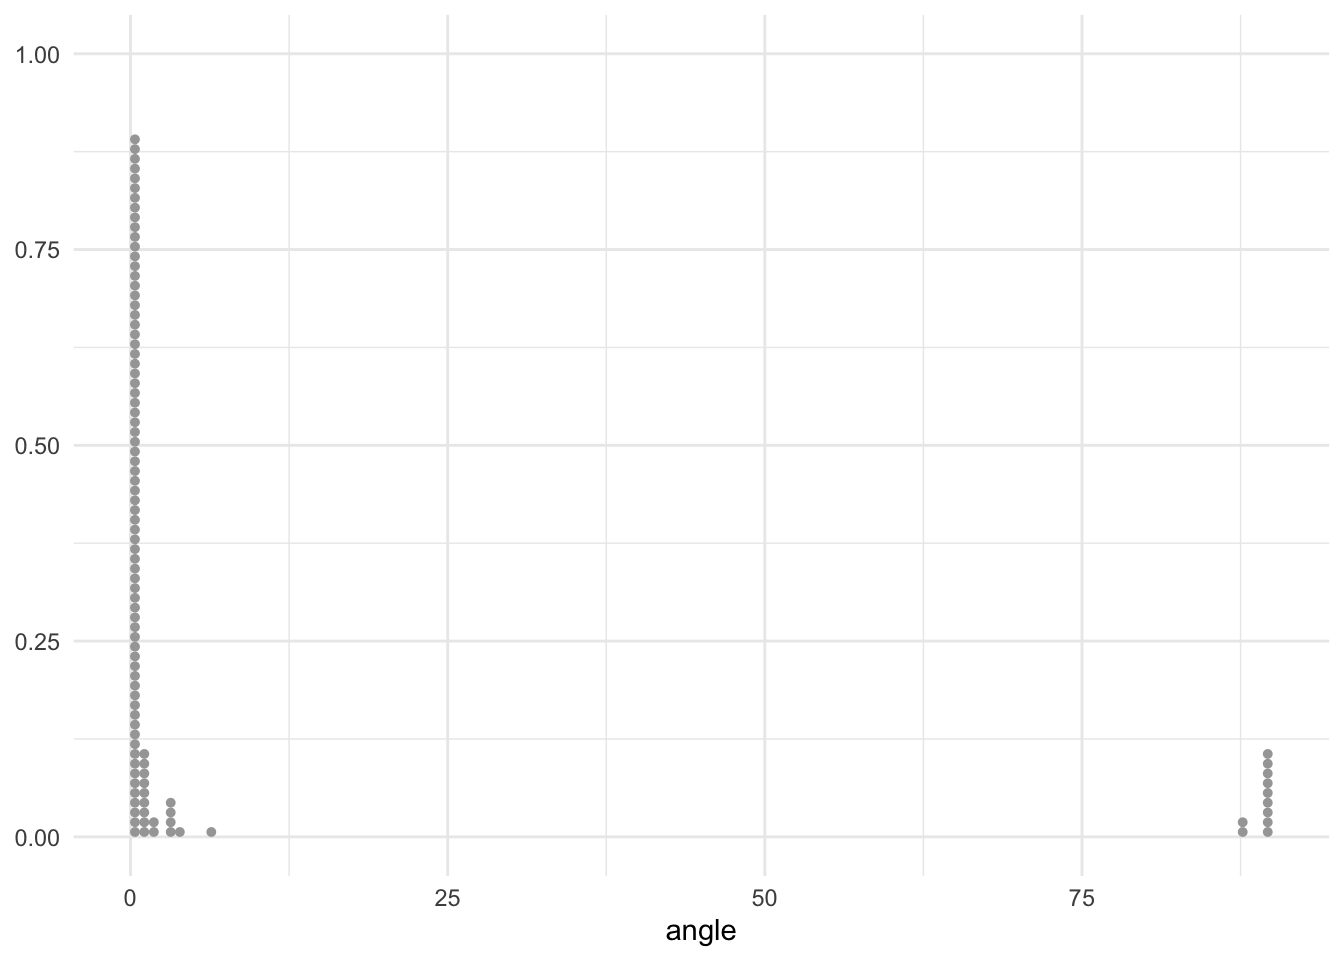
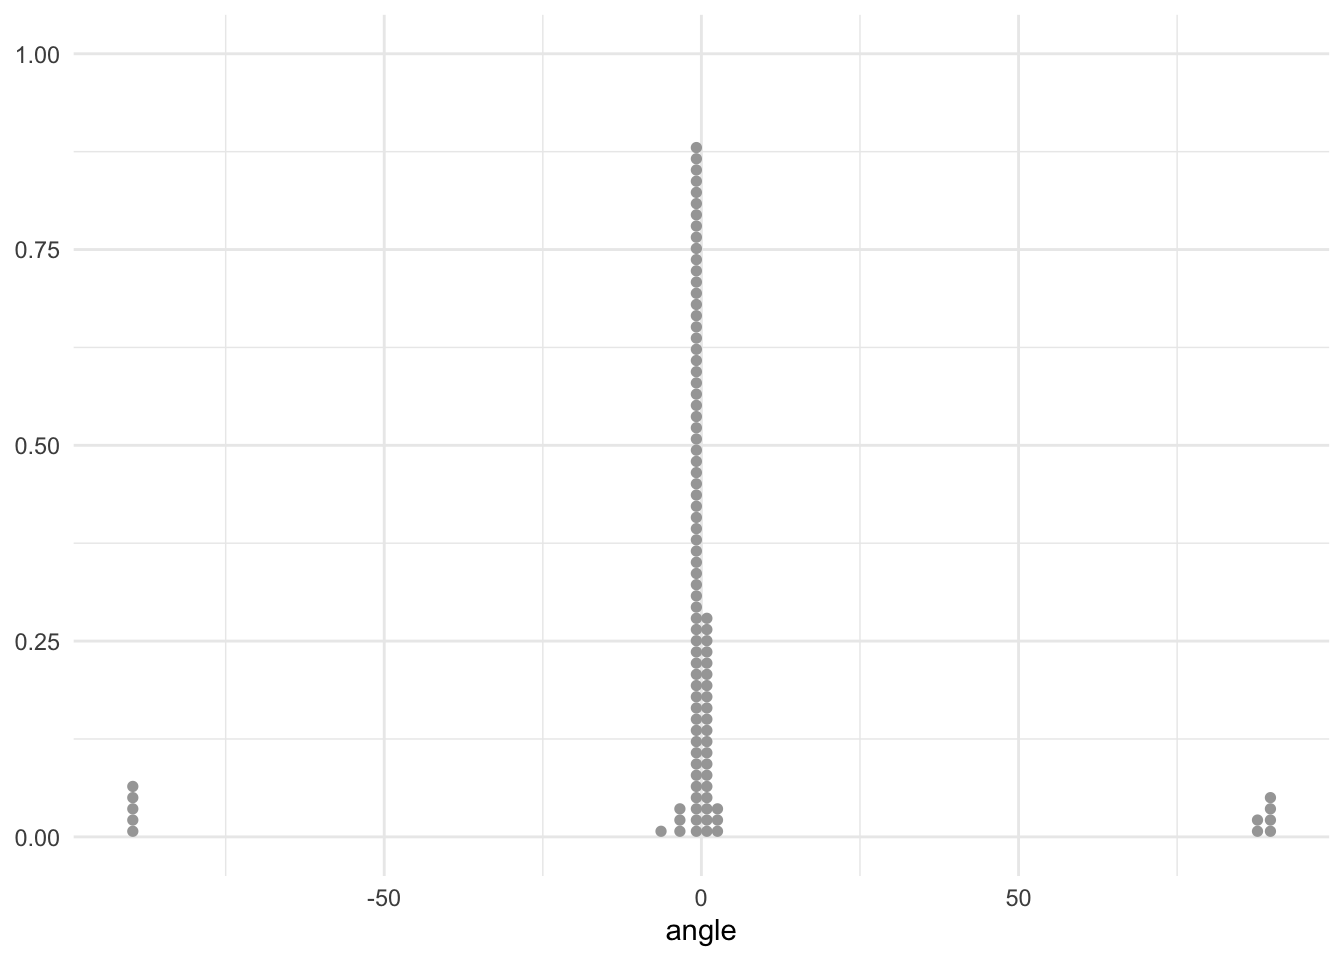
adding stuff related to task 4

diff --git a/model.html b/model.html
@@ -808,7 +808,7 @@ scale reduction factor on split chains (at convergence, Rhat = 1).</code></pre>
 </div>
 <p>The only thing that is worth noting is the relationship between <code>data.select.grad</code> and <code>dist_to_screen</code>. What about the corresponding angle?</p>
 <div class="cell">
-<div class="sourceCode cell-code" id="cb54"><pre class="sourceCode r code-with-copy"><code class="sourceCode r"><span id="cb54-1"><a href="#cb54-1" aria-hidden="true" tabindex="-1"></a>task2_df <span class="sc">%&gt;%</span> <span class="fu">ggplot</span>(<span class="fu">aes</span>(<span class="at">y =</span> <span class="fu">abs</span>(data.select.angle), <span class="at">x =</span> dist_to_screen)) <span class="sc">+</span></span>
+<div class="sourceCode cell-code" id="cb54"><pre class="sourceCode r code-with-copy"><code class="sourceCode r"><span id="cb54-1"><a href="#cb54-1" aria-hidden="true" tabindex="-1"></a>task2_df <span class="sc">%&gt;%</span> <span class="fu">ggplot</span>(<span class="fu">aes</span>(<span class="at">y =</span> data.select.angle, <span class="at">x =</span> dist_to_screen)) <span class="sc">+</span></span>
 <span id="cb54-2"><a href="#cb54-2" aria-hidden="true" tabindex="-1"></a>  <span class="fu">geom_point</span>(<span class="at">alpha =</span> <span class="fl">0.5</span>)</span></code><button title="Copy to Clipboard" class="code-copy-button"><i class="bi"></i></button></pre></div>
 <div class="cell-output-display">
 <div>
@@ -824,7 +824,7 @@ scale reduction factor on split chains (at convergence, Rhat = 1).</code></pre>
 <div class="sourceCode cell-code" id="cb55"><pre class="sourceCode r code-with-copy"><code class="sourceCode r"><span id="cb55-1"><a href="#cb55-1" aria-hidden="true" tabindex="-1"></a>task2_df <span class="sc">%&gt;%</span> </span>
 <span id="cb55-2"><a href="#cb55-2" aria-hidden="true" tabindex="-1"></a>  <span class="fu">mutate</span>(<span class="at">diff.x =</span> phy.select.x <span class="sc">-</span> phy.ans.x, </span>
 <span id="cb55-3"><a href="#cb55-3" aria-hidden="true" tabindex="-1"></a>         <span class="at">diff.y =</span> phy.select.y <span class="sc">-</span> phy.ans.y, </span>
-<span id="cb55-4"><a href="#cb55-4" aria-hidden="true" tabindex="-1"></a>         <span class="at">angle =</span> <span class="fu">atan</span>(<span class="fu">abs</span>(diff.y) <span class="sc">/</span> <span class="fu">abs</span>(diff.x)) <span class="sc">*</span> <span class="dv">180</span> <span class="sc">/</span> pi) <span class="sc">%&gt;%</span> </span>
+<span id="cb55-4"><a href="#cb55-4" aria-hidden="true" tabindex="-1"></a>         <span class="at">angle =</span> <span class="fu">atan</span>(diff.y <span class="sc">/</span> diff.x) <span class="sc">*</span> <span class="dv">180</span> <span class="sc">/</span> pi) <span class="sc">%&gt;%</span> </span>
 <span id="cb55-5"><a href="#cb55-5" aria-hidden="true" tabindex="-1"></a>  <span class="fu">ggplot</span>(<span class="fu">aes</span>(<span class="at">x =</span> angle)) <span class="sc">+</span> </span>
 <span id="cb55-6"><a href="#cb55-6" aria-hidden="true" tabindex="-1"></a>  <span class="fu">geom_dots</span>()</span></code><button title="Copy to Clipboard" class="code-copy-button"><i class="bi"></i></button></pre></div>
 <div class="cell-output-display">
@@ -911,8 +911,83 @@ scale reduction factor on split chains (at convergence, Rhat = 1).</code></pre>
 <div class="cell">
 <div class="sourceCode cell-code" id="cb60"><pre class="sourceCode r code-with-copy"><code class="sourceCode r"><span id="cb60-1"><a href="#cb60-1" aria-hidden="true" tabindex="-1"></a>task4_df <span class="ot">&lt;-</span> task_df <span class="sc">%&gt;%</span> <span class="fu">filter</span>(task <span class="sc">==</span> <span class="st">"task4"</span>) <span class="sc">%&gt;%</span> </span>
 <span id="cb60-2"><a href="#cb60-2" aria-hidden="true" tabindex="-1"></a>  <span class="fu">select</span>(<span class="sc">-</span>slider.x, <span class="sc">-</span>slider.y) <span class="sc">%&gt;%</span> </span>
-<span id="cb60-3"><a href="#cb60-3" aria-hidden="true" tabindex="-1"></a>  <span class="fu">mutate</span>(<span class="at">slope =</span> <span class="fu">dsgt</span>(data.select.x, param.mu, param.sigma, param.lambda, param.p, param.q, <span class="at">mean.cent=</span><span class="cn">FALSE</span>), </span>
-<span id="cb60-4"><a href="#cb60-4" aria-hidden="true" tabindex="-1"></a>         <span class="at">ans =</span> <span class="fu">dsgt</span>(param.mu, param.mu, param.sigma, param.lambda, param.p, param.q, <span class="at">mean.cent=</span><span class="cn">FALSE</span>))</span></code><button title="Copy to Clipboard" class="code-copy-button"><i class="bi"></i></button></pre></div>
+<span id="cb60-3"><a href="#cb60-3" aria-hidden="true" tabindex="-1"></a>  <span class="fu">mutate</span>(<span class="at">data.select.slope =</span> <span class="fu">dsgt</span>(data.select.x, param.mu, param.sigma, param.lambda, param.p, param.q, <span class="at">mean.cent=</span><span class="cn">FALSE</span>), </span>
+<span id="cb60-4"><a href="#cb60-4" aria-hidden="true" tabindex="-1"></a>         <span class="at">data.ans.slope =</span> <span class="fu">dsgt</span>(param.mu, param.mu, param.sigma, param.lambda, param.p, param.q, <span class="at">mean.cent=</span><span class="cn">FALSE</span>)) <span class="sc">%&gt;%</span> </span>
+<span id="cb60-5"><a href="#cb60-5" aria-hidden="true" tabindex="-1"></a>  <span class="fu">left_join</span>(participants, <span class="at">by =</span> <span class="fu">join_by</span>(participantId))</span></code><button title="Copy to Clipboard" class="code-copy-button"><i class="bi"></i></button></pre></div>
+</div>
+<p>Let’s first see the distribution of signed error:</p>
+<div class="cell">
+<div class="sourceCode cell-code" id="cb61"><pre class="sourceCode r code-with-copy"><code class="sourceCode r"><span id="cb61-1"><a href="#cb61-1" aria-hidden="true" tabindex="-1"></a>task4_df <span class="sc">%&gt;%</span> <span class="fu">ggplot</span>(<span class="fu">aes</span>(<span class="at">x =</span> data.select.slope <span class="sc">-</span> data.ans.slope)) <span class="sc">+</span> </span>
+<span id="cb61-2"><a href="#cb61-2" aria-hidden="true" tabindex="-1"></a>  <span class="fu">geom_dots</span>()</span></code><button title="Copy to Clipboard" class="code-copy-button"><i class="bi"></i></button></pre></div>
+<div class="cell-output-display">
+<div>
+<figure class="figure">
+<p><img src="model_files/figure-html/unnamed-chunk-35-1.png" class="img-fluid figure-img" width="672"></p>
+</figure>
+</div>
+</div>
+</div>
+<p>It seems that the selected slope is consistently smaller than the actual slope of the answer.</p>
+<p>Let’s see if there’s any obvious relation between signed error and parameters of the distribution:</p>
+<div class="cell">
+<div class="sourceCode cell-code" id="cb62"><pre class="sourceCode r code-with-copy"><code class="sourceCode r"><span id="cb62-1"><a href="#cb62-1" aria-hidden="true" tabindex="-1"></a><span class="co"># | layout-ncol: 2</span></span>
+<span id="cb62-2"><a href="#cb62-2" aria-hidden="true" tabindex="-1"></a><span class="co">#| code-fold: true </span></span>
+<span id="cb62-3"><a href="#cb62-3" aria-hidden="true" tabindex="-1"></a></span>
+<span id="cb62-4"><a href="#cb62-4" aria-hidden="true" tabindex="-1"></a></span>
+<span id="cb62-5"><a href="#cb62-5" aria-hidden="true" tabindex="-1"></a>task4_df <span class="sc">%&gt;%</span> <span class="fu">ggplot</span>(<span class="fu">aes</span>(<span class="at">y =</span> data.select.slope <span class="sc">-</span> data.ans.slope, <span class="at">x =</span> dist_to_screen)) <span class="sc">+</span> </span>
+<span id="cb62-6"><a href="#cb62-6" aria-hidden="true" tabindex="-1"></a>  <span class="fu">geom_point</span>()</span></code><button title="Copy to Clipboard" class="code-copy-button"><i class="bi"></i></button></pre></div>
+<div class="cell-output-display">
+<div>
+<figure class="figure">
+<p><img src="model_files/figure-html/unnamed-chunk-36-1.png" class="img-fluid figure-img" width="672"></p>
+</figure>
+</div>
+</div>
+<div class="sourceCode cell-code" id="cb63"><pre class="sourceCode r code-with-copy"><code class="sourceCode r"><span id="cb63-1"><a href="#cb63-1" aria-hidden="true" tabindex="-1"></a>task4_df <span class="sc">%&gt;%</span> <span class="fu">ggplot</span>(<span class="fu">aes</span>(<span class="at">y =</span> data.select.slope <span class="sc">-</span> data.ans.slope, <span class="at">x =</span> param.mu)) <span class="sc">+</span> </span>
+<span id="cb63-2"><a href="#cb63-2" aria-hidden="true" tabindex="-1"></a>  <span class="fu">geom_point</span>()</span></code><button title="Copy to Clipboard" class="code-copy-button"><i class="bi"></i></button></pre></div>
+<div class="cell-output-display">
+<div>
+<figure class="figure">
+<p><img src="model_files/figure-html/unnamed-chunk-36-2.png" class="img-fluid figure-img" width="672"></p>
+</figure>
+</div>
+</div>
+<div class="sourceCode cell-code" id="cb64"><pre class="sourceCode r code-with-copy"><code class="sourceCode r"><span id="cb64-1"><a href="#cb64-1" aria-hidden="true" tabindex="-1"></a>task4_df <span class="sc">%&gt;%</span> <span class="fu">ggplot</span>(<span class="fu">aes</span>(<span class="at">y =</span> data.select.slope <span class="sc">-</span> data.ans.slope, <span class="at">x =</span> param.sigma)) <span class="sc">+</span> </span>
+<span id="cb64-2"><a href="#cb64-2" aria-hidden="true" tabindex="-1"></a>  <span class="fu">geom_point</span>()</span></code><button title="Copy to Clipboard" class="code-copy-button"><i class="bi"></i></button></pre></div>
+<div class="cell-output-display">
+<div>
+<figure class="figure">
+<p><img src="model_files/figure-html/unnamed-chunk-36-3.png" class="img-fluid figure-img" width="672"></p>
+</figure>
+</div>
+</div>
+<div class="sourceCode cell-code" id="cb65"><pre class="sourceCode r code-with-copy"><code class="sourceCode r"><span id="cb65-1"><a href="#cb65-1" aria-hidden="true" tabindex="-1"></a>task4_df <span class="sc">%&gt;%</span> <span class="fu">ggplot</span>(<span class="fu">aes</span>(<span class="at">y =</span> data.select.slope <span class="sc">-</span> data.ans.slope, <span class="at">x =</span> param.lambda)) <span class="sc">+</span> </span>
+<span id="cb65-2"><a href="#cb65-2" aria-hidden="true" tabindex="-1"></a>  <span class="fu">geom_point</span>()</span></code><button title="Copy to Clipboard" class="code-copy-button"><i class="bi"></i></button></pre></div>
+<div class="cell-output-display">
+<div>
+<figure class="figure">
+<p><img src="model_files/figure-html/unnamed-chunk-36-4.png" class="img-fluid figure-img" width="672"></p>
+</figure>
+</div>
+</div>
+<div class="sourceCode cell-code" id="cb66"><pre class="sourceCode r code-with-copy"><code class="sourceCode r"><span id="cb66-1"><a href="#cb66-1" aria-hidden="true" tabindex="-1"></a>task4_df <span class="sc">%&gt;%</span> <span class="fu">ggplot</span>(<span class="fu">aes</span>(<span class="at">y =</span> data.select.slope <span class="sc">-</span> data.ans.slope, <span class="at">x =</span> param.p)) <span class="sc">+</span> </span>
+<span id="cb66-2"><a href="#cb66-2" aria-hidden="true" tabindex="-1"></a>  <span class="fu">geom_point</span>()</span></code><button title="Copy to Clipboard" class="code-copy-button"><i class="bi"></i></button></pre></div>
+<div class="cell-output-display">
+<div>
+<figure class="figure">
+<p><img src="model_files/figure-html/unnamed-chunk-36-5.png" class="img-fluid figure-img" width="672"></p>
+</figure>
+</div>
+</div>
+<div class="sourceCode cell-code" id="cb67"><pre class="sourceCode r code-with-copy"><code class="sourceCode r"><span id="cb67-1"><a href="#cb67-1" aria-hidden="true" tabindex="-1"></a>task4_df <span class="sc">%&gt;%</span> <span class="fu">ggplot</span>(<span class="fu">aes</span>(<span class="at">y =</span> data.select.slope <span class="sc">-</span> data.ans.slope, <span class="at">x =</span> param.q)) <span class="sc">+</span> </span>
+<span id="cb67-2"><a href="#cb67-2" aria-hidden="true" tabindex="-1"></a>  <span class="fu">geom_point</span>()</span></code><button title="Copy to Clipboard" class="code-copy-button"><i class="bi"></i></button></pre></div>
+<div class="cell-output-display">
+<div>
+<figure class="figure">
+<p><img src="model_files/figure-html/unnamed-chunk-36-6.png" class="img-fluid figure-img" width="672"></p>
+</figure>
+</div>
+</div>
 </div>
 </section>
 
